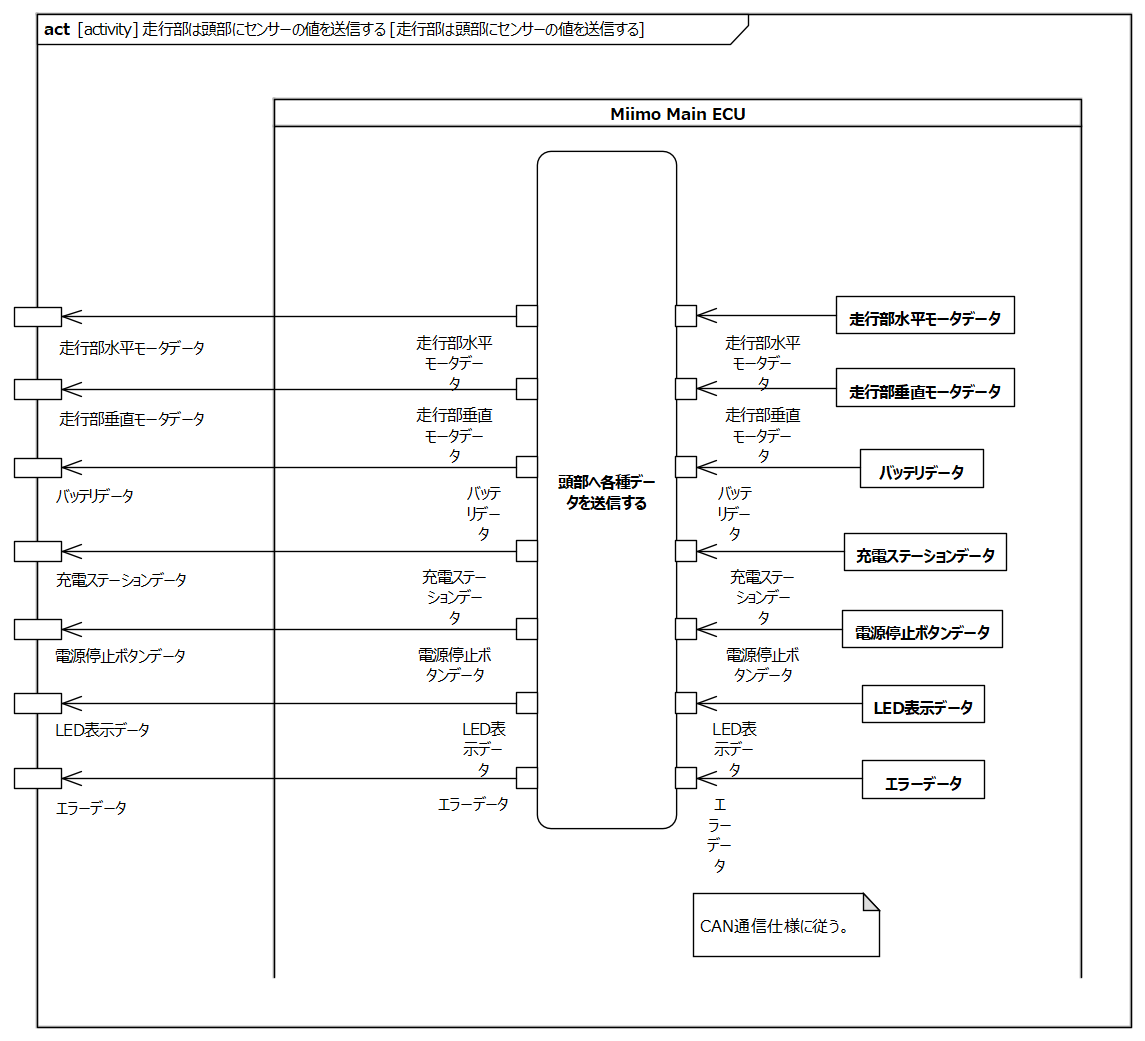
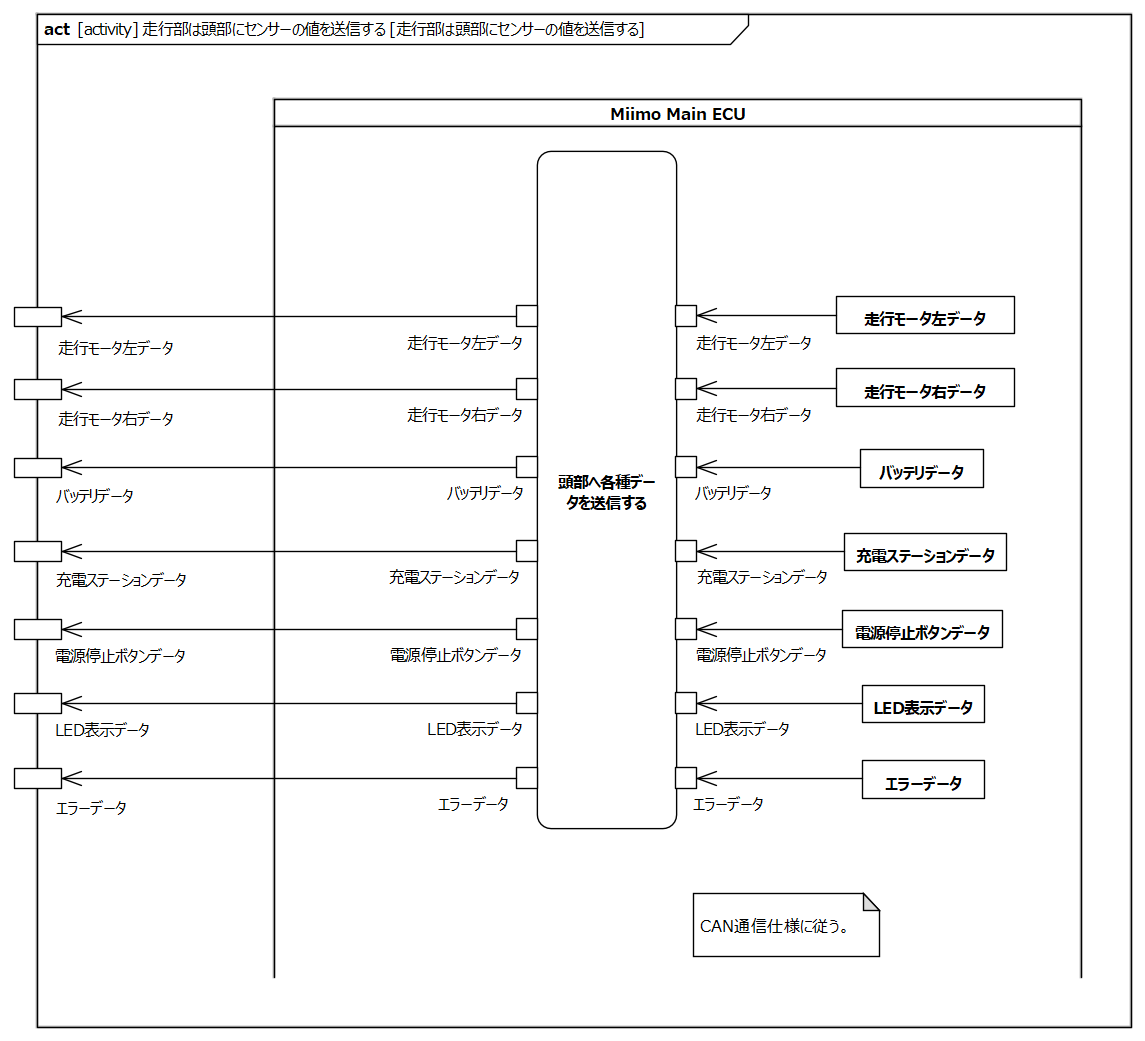
データを送信する L1アクティビティ図、モータ名修正

diff --git a/requirements/send_data.md b/requirements/send_data.md
@@ -74,8 +74,8 @@ avatarin側の責務のため、対象外とする。
 
 |要求|備考|
 |:---|:---|
-|走行部は水平モータのデータを取得する||
-|走行部は垂直モータのデータを取得する||
+|走行部は走行モータ左のデータを取得する||
+|走行部は走行モータ右のデータを取得する||
 |走行部はバッテリのデータを取得する||
 |走行部は充電ステーションのデータを取得する||
 |走行部は電源停止ボタンのデータを取得する||
